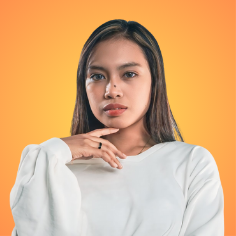
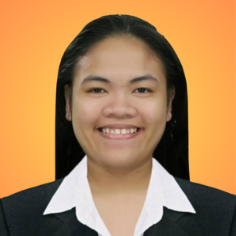
22-10

diff --git a/index.html b/index.html
@@ -71,7 +71,6 @@
   <main class="main">
 
     <!-- Hero Section -->
-    
     <div id="carouselExampleInterval" class="carousel slide" data-bs-ride="carousel">
       <div class="carousel-inner">
         <div class="carousel-item active carousel-overlay" data-bs-interval="10000">
@@ -138,7 +137,7 @@
           <div class="col-lg-6 about-images" data-aos="fade-up" data-aos-delay="200">
             <div class="row gy-4">
               <div class="col-lg-6">
-                <img src="assets/img/about.jpg" style="width:100%; height: 425px;">
+                <img src="assets/img-samp/about-company-1.png" style="width:100%; height: 425px;">
               </div>
               <div class="col-lg-6">
                 <div class="row gy-4">
@@ -152,8 +151,7 @@
               </div>
             </div>
           </div>
-          
-          
+        
           <div class="col-lg-6 content" data-aos="fade-up" data-aos-delay="200" style="text-align: center;">
             <br>
             <h3 id="about">WHO WE ARE</h3>
@@ -182,7 +180,6 @@
         </div>
       </div>
     </section>
-    
     <!-- /About Section -->
 
     <!-- Section Title -->
@@ -259,7 +256,7 @@
               <div class="col-lg-3 col-md-6 d-flex align-items-stretch" data-aos="fade-up" data-aos-delay="100">
                 <div class="team-member">
                   <div class="member-img">
-                    <img src="assets/img-samp/P1.png">
+                    <img src="assets/img-samp/P3.png">
                     <div class="social">
                       <a href="#" data-bs-toggle="tooltip" data-bs-placement="bottom" title="09603829542">
                         <i class="bi bi-telephone"></i>
@@ -288,7 +285,7 @@
               <div class="col-lg-3 col-md-6 d-flex align-items-stretch" data-aos="fade-up" data-aos-delay="100">
                 <div class="team-member">
                   <div class="member-img">
-                    <img src="assets/img-samp/P3.png">
+                    <img src="assets/img-samp/P4.png">
                     <div class="social">
                       <a href="#" data-bs-toggle="tooltip" data-bs-placement="bottom" title="09306691093">
                         <i class="bi bi-telephone"></i>
@@ -316,7 +313,7 @@
               <div class="col-lg-3 col-md-6 d-flex align-items-stretch" data-aos="fade-up" data-aos-delay="100">
                 <div class="team-member">
                   <div class="member-img">
-                    <img src="assets/img-samp/Ex.png">
+                    <img src="assets/img-samp/P5.png">
                     <div class="social">
                       <a href="#" data-bs-toggle="tooltip" data-bs-placement="bottom" title="09660845339">
                         <i class="bi bi-telephone"></i>
@@ -345,7 +342,7 @@
               <div class="col-lg-3 col-md-6 d-flex align-items-stretch" data-aos="fade-up" data-aos-delay="100">
                 <div class="team-member">
                   <div class="member-img">
-                    <img src="assets/img-samp/Ex.png">
+                    <img src="assets/img-samp/P6.png">
                     <div class="social">
                       <a href="#" data-bs-toggle="tooltip" data-bs-placement="bottom" title="09102501035">
                         <i class="bi bi-telephone"></i>
@@ -374,7 +371,7 @@
               <div class="col-lg-3 col-md-6 d-flex align-items-stretch" data-aos="fade-up" data-aos-delay="100">
                 <div class="team-member">
                   <div class="member-img">
-                    <img src="assets/img-samp/Ex.png">
+                    <img src="assets/img-samp/P7.png">
                     <div class="social">
                       <a href="#" data-bs-toggle="tooltip" data-bs-placement="bottom" title="09092880050">
                         <i class="bi bi-telephone"></i>
@@ -466,7 +463,7 @@
               <div class="col-lg-3 col-md-6 d-flex align-items-stretch" data-aos="fade-up" data-aos-delay="100">
                 <div class="team-member">
                   <div class="member-img">
-                    <img src="assets/img-samp/Ex.png">
+                    <img src="assets/img-samp/P10.png">
                     <div class="social">
                       <a href="#" data-bs-toggle="tooltip" data-bs-placement="bottom" title="09858321530">
                         <i class="bi bi-telephone"></i>
@@ -578,7 +575,7 @@
               <div class="col-lg-3 col-md-6 d-flex align-items-stretch" data-aos="fade-up" data-aos-delay="100">
                 <div class="team-member">
                   <div class="member-img">
-                    <img src="assets/img-samp/Ex.png">
+                    <img src="assets/img-samp/P13.png">
                     <div class="social">
                       <a href="#" data-bs-toggle="tooltip" data-bs-placement="bottom" title="09550430339">
                         <i class="bi bi-telephone"></i>

diff --git a/workshop.html b/workshop.html
@@ -87,7 +87,7 @@
   <main class="main">
 
     <!-- Page Title -->
-    <div class="page-title dark-background">
+    <div class="page-title dark-background" style="background-image: url(assets/img-samp/GSWC.png);">
       <div class="container position-relative">
         <h1>1 Peter 4:10-11</h1>
        <p class="fst-italic" style="text-align: center;">“10 Each of you should use whatever gift you have received to serve others, as faithful stewards of God’s grace in its various forms. 11 If anyone speaks, they should do so as one who speaks the very words of God. If anyone serves, they should do so with the strength God provides, so that in all things God may be praised through Jesus Christ. To him be the glory and the power for ever and ever. Amen.”</p>

diff --git a/assets/css/main.css b/assets/css/main.css
@@ -716,13 +716,12 @@ h6 {
 # Global Sections
 --------------------------------------------------------------*/
 section,
-.section {
+.about section {
   color: var(--default-color);
   background-color: var(--background-color);
-  padding: 80px 30px;
+  padding: 100px 50px;
   scroll-margin-top: 100px;
   overflow: clip;
-  
 }
 
 @media (max-width: 1199px) {
@@ -1915,12 +1914,11 @@ section,
   bottom: 15px;
   
 }
-
 .team .carousel-control-prev,
 .team .carousel-control-next {
   position: absolute;
   top: 50%;
-  transform: translateY(-50%);
+  transform: translateY(-20%);
   width: 5%;
   z-index: 10;
 }

diff --git a/getinvolved.html b/getinvolved.html
@@ -194,7 +194,7 @@
   <main class="main">
 
     <!-- Page Title -->
-    <div class="page-title dark-background">
+    <div class="page-title dark-background" style="background-image: url(assets/img-samp/GSWC.png);">
       <div class="container position-relative">
         <h1>Get Involved</h1>
         <p>Esse dolorum voluptatum ullam est sint nemo et est ipsa porro placeat quibusdam quia assumenda numquam molestias.</p>
